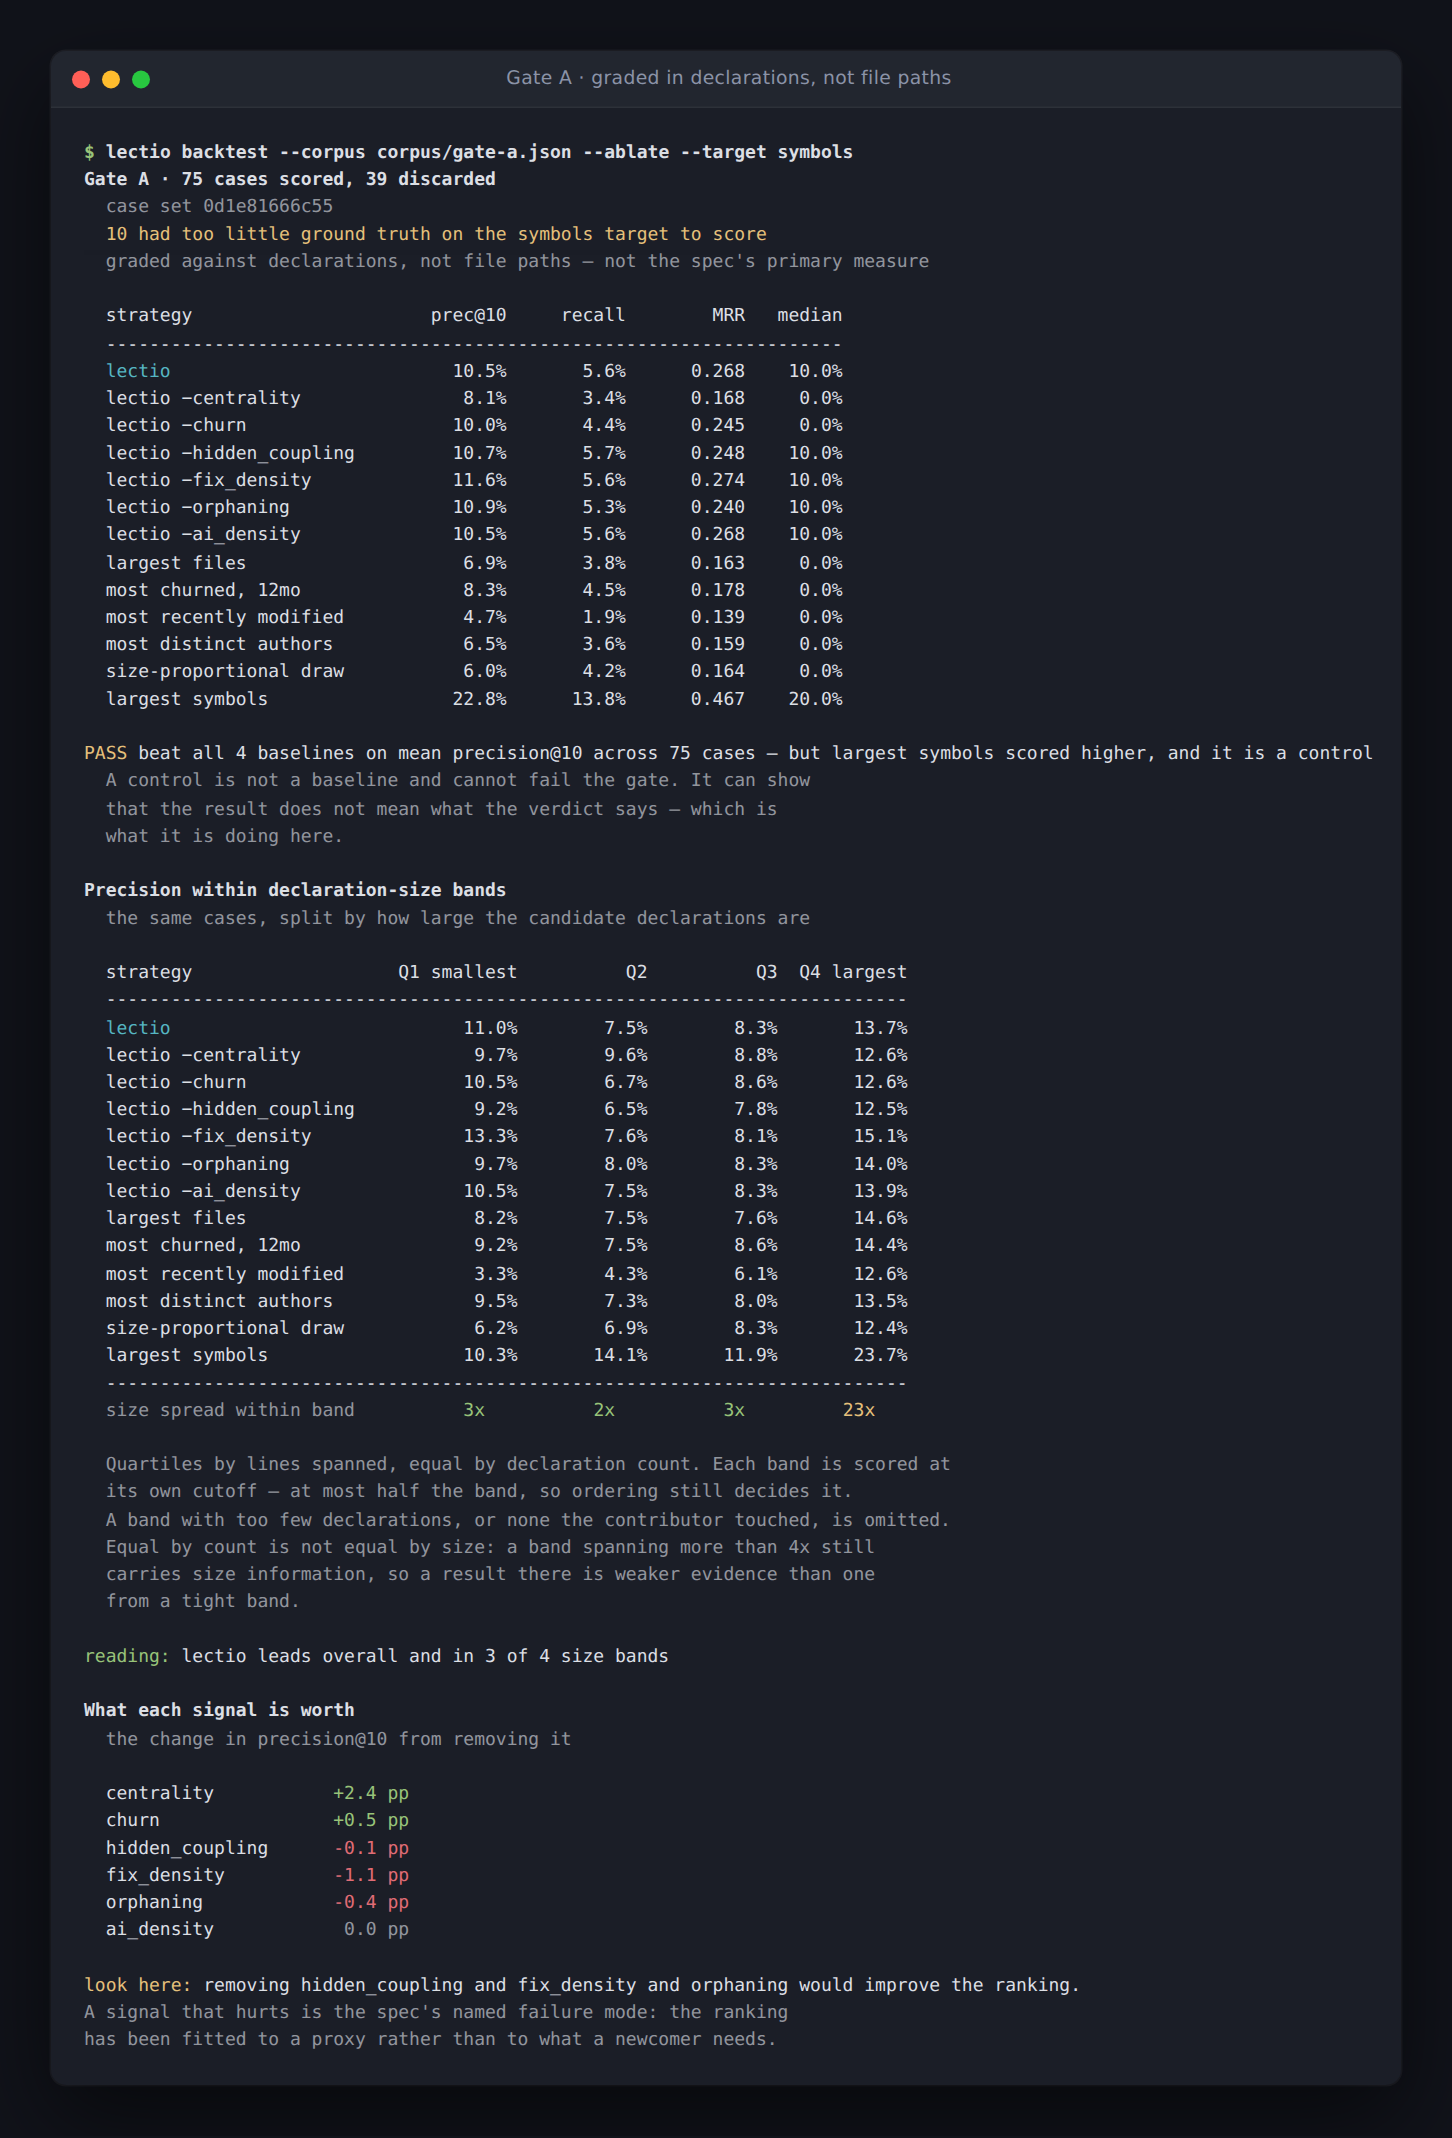
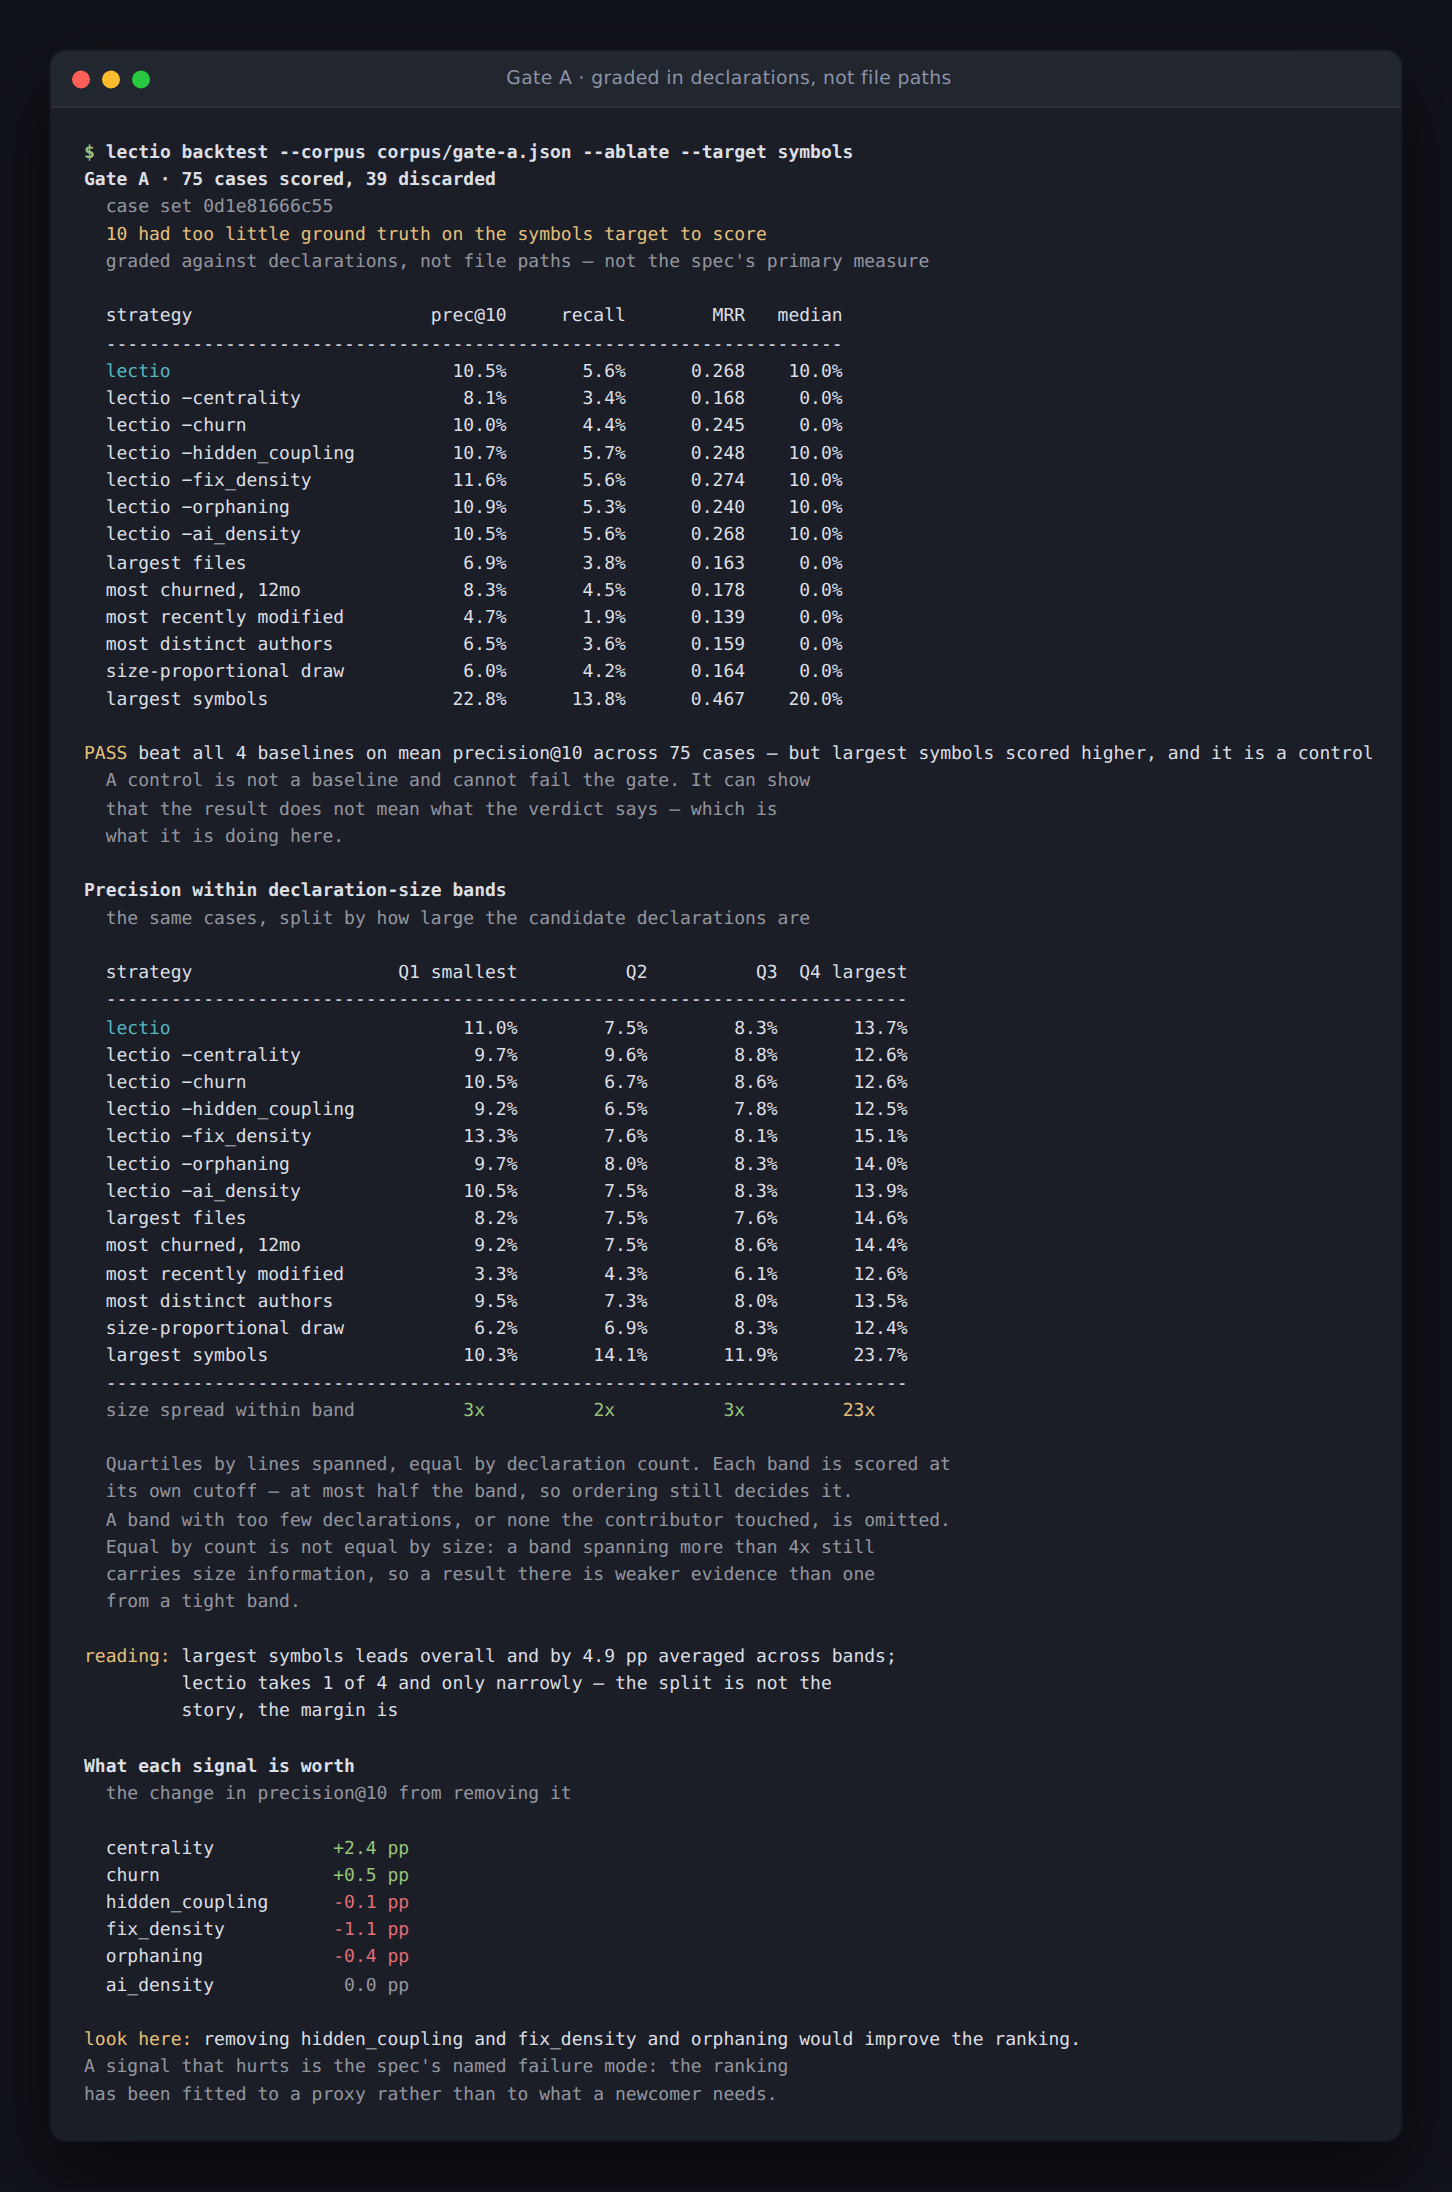
docs: screenshot of the symbol-granularity run
The finding that closed the last open question had no picture. This is the
real capture, including the pass printed in warning colour and the reading
line naming the margin rather than the band count.

diff --git a/README.md b/README.md
@@ -252,6 +252,11 @@ The control leads on recall, MRR and median too. It was defined before the run,
 precisely to ask whether size would follow the measure down from files to
 symbols. It did.
 
+![Gate A graded in declarations: 75 cases scored, 39 discarded, case set 0d1e81666c55. Lectio reaches 10.5 percent precision at 10 and beats all four baselines, so the verdict reads PASS — annotated that largest symbols scored 22.8 percent and is a control. A declaration-size band table follows, with the reading stating that largest symbols leads by 4.9 points averaged across bands.](docs/images/symbols.png)
+
+<sub>The verdict is a pass. It is printed in warning colour because a control
+more than doubled it, which is the more useful fact.</sub>
+
 Gate A is a hard stop and it has now been answered six ways. Nothing below it
 should be built on this ranking. What would change the answer is in
 [the write-up](docs/gate-a-2026-08.md#what-this-means); after six runs the most
